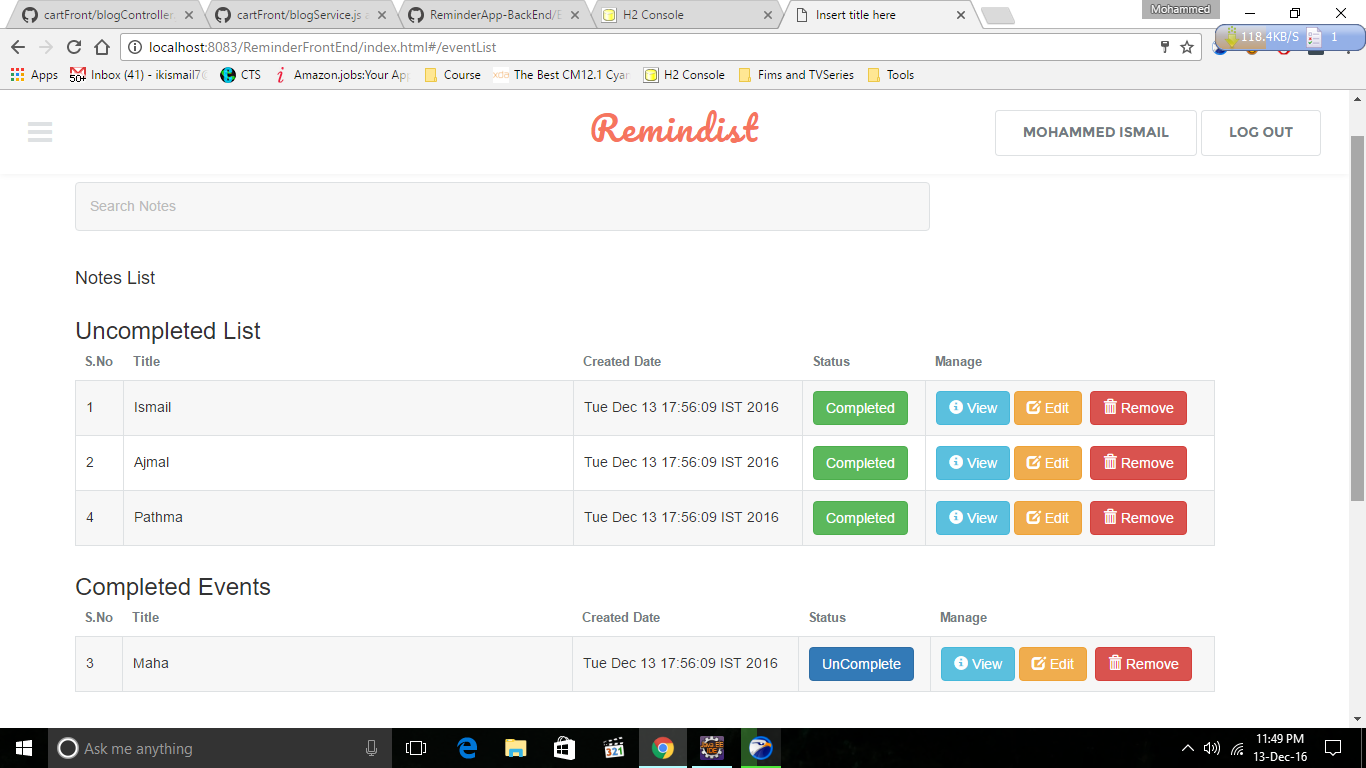
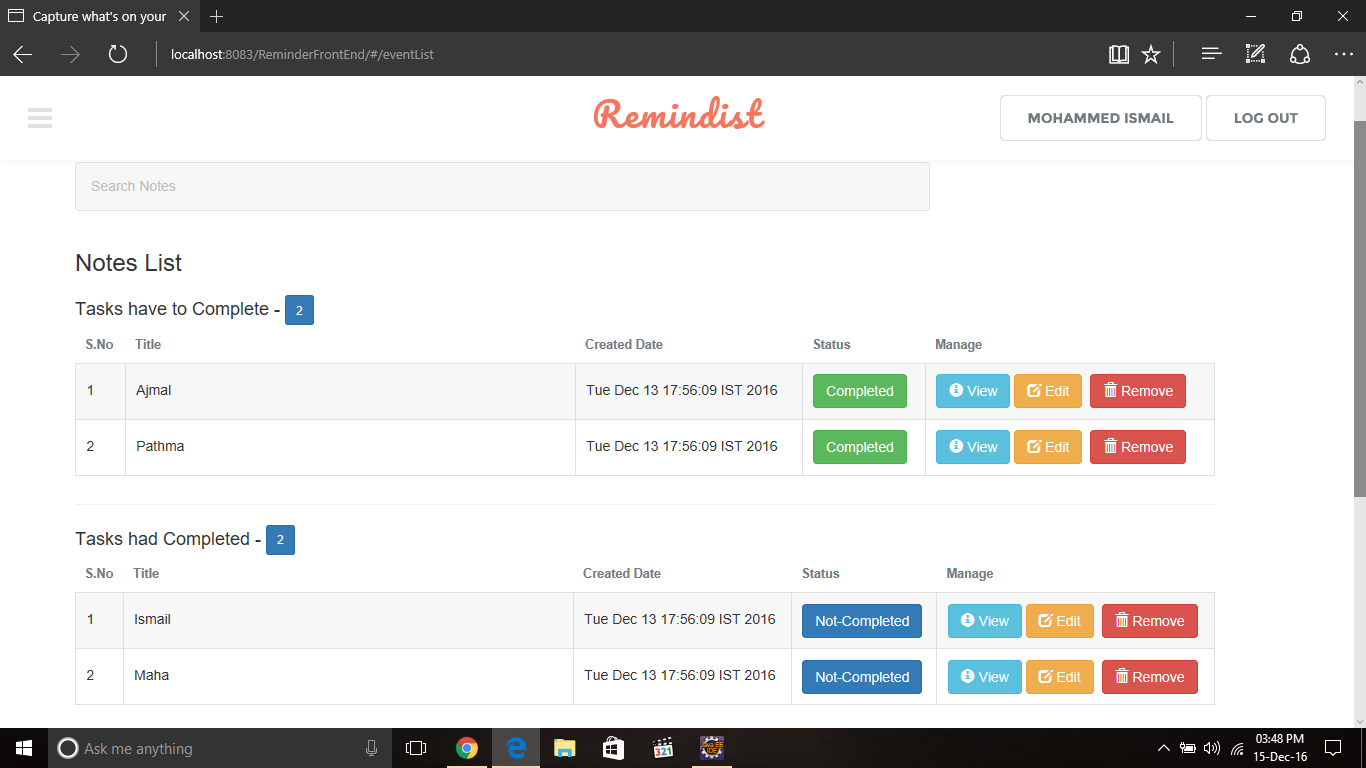
List UI design

diff --git a/WebContent/c_event/eventList.html b/WebContent/c_event/eventList.html
@@ -15,10 +15,12 @@
 		</div>
 
 		<!-- Table List -->
-		<h4>Notes List</h4>
+		<h3>Notes List</h3>
 
 		<div class="table-wrapper">
-			<h3>Uncompleted List</h3>
+			<h4>
+				Tasks have to Complete - <span class="btn btn-primary btn-sm">{{unCompletedEvents.length}}</span>
+			</h4>
 			<table class="alt">
 				<thead>
 					<tr>
@@ -31,15 +33,15 @@
 				</thead>
 				<tbody>
 					<tr data-ng-repeat="uc in unCompletedEvents | filter:search">
-						<td>{{uc.eventId}}</td>
+						<td>{{$index+1}}</td>
 						<td>{{uc.title}}</td>
 						<td>{{uc.eventCreatedDate}}</td>
 						<td><a href="" class="btn btn-success" role="button"
 							data-ng-click="completeEvent(uc.eventId)"> <span
 								class="glyphicons glyphicons-thumbs-up"></span> Completed
 						</a></td>
-						<td><a href="" class="btn btn-info"
-							role="button" data-toggle="modal" data-target="#myModal"
+						<td><a href="" class="btn btn-info" role="button"
+							data-toggle="modal" data-target="#myModal"
 							data-ng-click="getById(uc.eventId)"> <span
 								class="glyphicon glyphicon-info-sign"></span> View
 						</a> <a href="#/edit/{{uc.eventId}}" class="btn btn-warning"
@@ -53,7 +55,12 @@
 
 				</tbody>
 			</table>
-			<h3>Completed Events</h3>
+
+			<hr>
+
+			<h4>
+				Tasks had Completed - <span class="btn btn-primary btn-sm">{{completedEvents.length}}</span>
+			</h4>
 			<table class="alt">
 				<thead>
 					<tr>
@@ -66,15 +73,15 @@
 				</thead>
 				<tbody>
 					<tr data-ng-repeat="ce in completedEvents | filter:search">
-						<td>{{ce.eventId}}</td>
+						<td>{{$index+1}}</td>
 						<td>{{ce.title}}</td>
 						<td>{{ce.eventCreatedDate}}</td>
 						<td><a href="" class="btn btn-primary" role="button"
 							data-ng-click="unCompleteEvent(ce.eventId)"> <span
-								class="glyphicons glyphicons-thumbs-down"></span> UnComplete
+								class="glyphicons glyphicons-thumbs-down"></span>Not-Completed
 						</a></td>
-						<td><a href="" class="btn btn-info"
-							role="button" data-toggle="modal" data-target="#myModal"
+						<td><a href="" class="btn btn-info" role="button"
+							data-toggle="modal" data-target="#myModal"
 							data-ng-click="getById(ce.eventId)"> <span
 								class="glyphicon glyphicon-info-sign"></span> View
 						</a> <a href="#/edit/{{ce.eventId}}" class="btn btn-warning"

diff --git a/WebContent/c_common/userController.js b/WebContent/c_common/userController.js
@@ -48,8 +48,7 @@ app
 										function(data) {
 											$scope.user = data;
 											if ($scope.user.errorCode == '404') {
-												console
-														.log($scope.user.errorMessage)
+												alert($scope.user.errorMessage)
 												$scope.user.emailId = '';
 												$scope.user.password = '';
 											} else {
